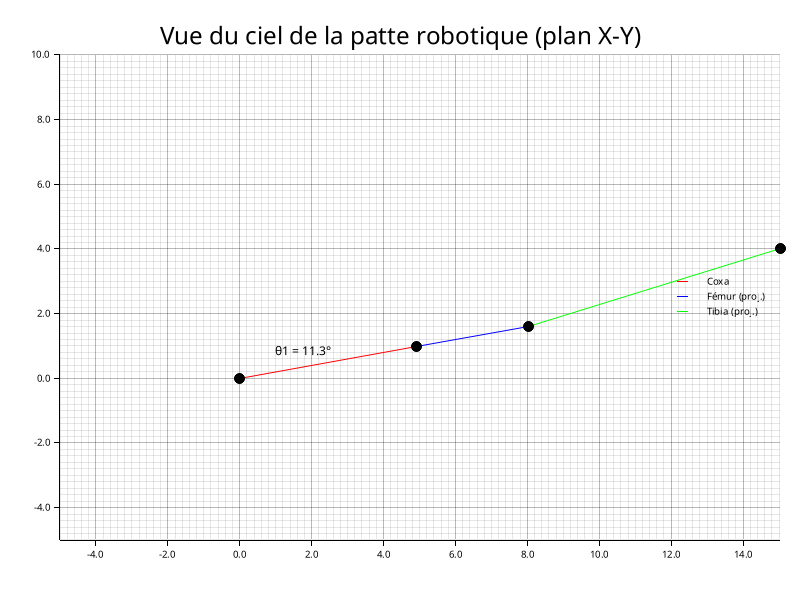
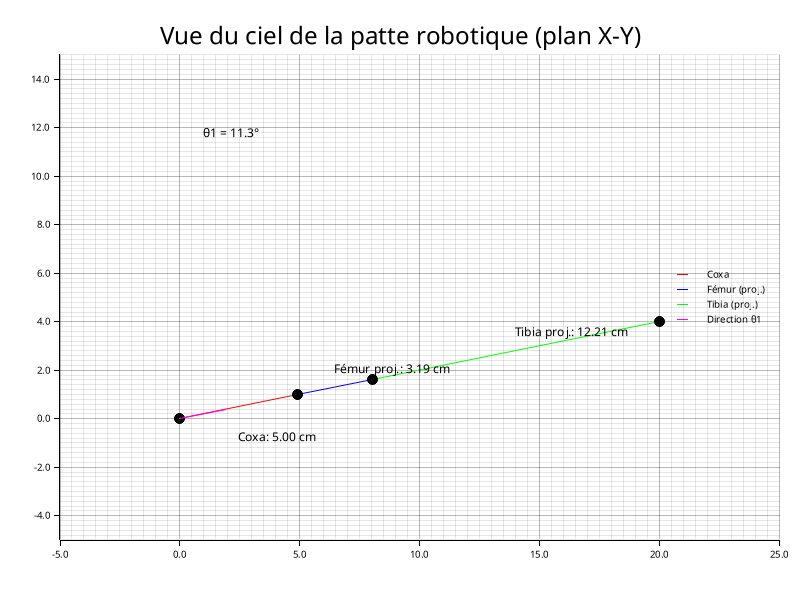
Enhance leg visualization functions to include precise joint coordinates and segment lengths

Changed region(s): [[0.0312, 0.09, 1.0, 0.93], [0.9688, 0.9, 1.0, 0.93]]

diff --git a/Rust/trigo-calc/src/visualisation.rs b/Rust/trigo-calc/src/visualisation.rs
@@ -1,23 +1,29 @@
 use plotters::prelude::*;
 
-pub fn visualize_leg(x: f64, y: f64, z: f64, coxa: f64, femur: f64, tibia: f64, theta1: f64, theta2: f64, theta4: f64) -> Result<(), Box<dyn std::error::Error>> {
+pub fn visualize_leg(
+    target_x: f64, target_y: f64, target_z: f64,
+    coxa_x: f64, coxa_z: f64,
+    femur_x: f64, femur_z: f64,
+    tibia_x: f64, tibia_z: f64,
+    theta1: f64, theta2: f64, theta4: f64
+) -> Result<(), Box<dyn std::error::Error>> {
     let root = BitMapBackend::new("leg_visualization.png", (800, 600)).into_drawing_area();
     root.fill(&WHITE)?;
     
     let mut chart = ChartBuilder::on(&root)
-        .caption("Visualisation 2D de la patte robotique", ("sans-serif", 30))
+        .caption("Visualisation 2D de la patte robotique (profil X-Z)", ("sans-serif", 30))
         .margin(20)
         .x_label_area_size(40)
         .y_label_area_size(40)
-        .build_cartesian_2d(-10.0..25.0, -10.0..15.0)?;
+        .build_cartesian_2d(-5.0..25.0, -5.0..15.0)?;
 
     chart.configure_mesh().draw()?;
 
-    // Points de la patte
-    let origin = (0.0, 0.0);
-    let coxa_end = (coxa, 0.0);
-    let femur_end = (coxa + femur * theta4.cos(), femur * theta4.sin());
-    let target = (x, z);
+    // Points de la patte avec les coordonnées réelles
+    let origin = (coxa_x, coxa_z);
+    let coxa_end = (femur_x, femur_z);
+    let femur_end = (tibia_x, tibia_z);
+    let target = (target_x, target_z);
 
     // Dessiner les segments
     chart.draw_series(LineSeries::new(
@@ -32,21 +38,43 @@ pub fn visualize_leg(x: f64, y: f64, z: f64, coxa: f64, femur: f64, tibia: f64, 
         vec![femur_end, target], &GREEN
     ))?.label("Tibia").legend(|(x, y)| PathElement::new(vec![(x, y), (x + 10, y)], &GREEN));
 
+    // Calculer les longueurs réelles des segments
+    let coxa_length = ((coxa_end.0 - origin.0).powi(2) + (coxa_end.1 - origin.1).powi(2)).sqrt();
+    let femur_length = ((femur_end.0 - coxa_end.0).powi(2) + (femur_end.1 - coxa_end.1).powi(2)).sqrt();
+    let tibia_length = ((target.0 - femur_end.0).powi(2) + (target.1 - femur_end.1).powi(2)).sqrt();
+
     // Afficher les longueurs des segments
     chart.draw_series(std::iter::once(Text::new(
-        format!("Coxa: {:.2} cm", coxa),
-        (coxa / 2.0, -1.0),
+        format!("Coxa: {:.2} cm", coxa_length),
+        ((origin.0 + coxa_end.0) / 2.0, (origin.1 + coxa_end.1) / 2.0 - 1.0),
         ("sans-serif", 15)
     )))?;
     chart.draw_series(std::iter::once(Text::new(
-        format!("Fémur: {:.2} cm", femur),
-        ((coxa + femur_end.0) / 2.0, femur_end.1 / 2.0),
+        format!("Fémur: {:.2} cm", femur_length),
+        ((coxa_end.0 + femur_end.0) / 2.0, (coxa_end.1 + femur_end.1) / 2.0 + 1.0),
         ("sans-serif", 15)
     )))?;
     chart.draw_series(std::iter::once(Text::new(
-        format!("Tibia: {:.2} cm", tibia),
-        ((femur_end.0 + target.0) / 2.0, (femur_end.1 + target.1) / 2.0),
+        format!("Tibia: {:.2} cm", tibia_length),
+        ((femur_end.0 + target.0) / 2.0, (femur_end.1 + target.1) / 2.0 + 1.0),
         ("sans-serif", 15)
+    )))?;
+
+    // Afficher les angles
+    chart.draw_series(std::iter::once(Text::new(
+        format!("θ1 = {:.1}°", theta1.to_degrees()),
+        (1.0, 10.0),
+        ("sans-serif", 15).into_font().color(&BLACK)
+    )))?;
+    chart.draw_series(std::iter::once(Text::new(
+        format!("θ2 = {:.1}°", theta2.to_degrees()),
+        (1.0, 8.5),
+        ("sans-serif", 15).into_font().color(&BLACK)
+    )))?;
+    chart.draw_series(std::iter::once(Text::new(
+        format!("θ4 = {:.1}°", theta4.to_degrees()),
+        (1.0, 7.0),
+        ("sans-serif", 15).into_font().color(&BLACK)
     )))?;
 
     // Dessiner les points
@@ -60,12 +88,18 @@ pub fn visualize_leg(x: f64, y: f64, z: f64, coxa: f64, femur: f64, tibia: f64, 
     chart.configure_series_labels().draw()?;
     root.present()?;
     
-    println!("Visualisation sauvegardée dans 'leg_visualization.png'");
+    println!("Visualisation profil sauvegardée dans 'leg_visualization.png'");
     Ok(())
 }
 
 // Génère la vue du ciel (top view) de la patte robotique
-pub fn visualize_leg_top_view(x: f64, y: f64, _z: f64, coxa: f64, femur: f64, _tibia: f64, theta1: f64, theta4: f64) -> Result<(), Box<dyn std::error::Error>> {
+pub fn visualize_leg_top_view(
+    target_x: f64, target_y: f64, _target_z: f64,
+    coxa_x: f64, coxa_y: f64,
+    femur_x: f64, femur_y: f64,
+    tibia_x: f64, tibia_y: f64,
+    theta1: f64
+) -> Result<(), Box<dyn std::error::Error>> {
     let root = BitMapBackend::new("leg_visualization_top.png", (800, 600)).into_drawing_area();
     root.fill(&WHITE)?;
     
@@ -74,20 +108,17 @@ pub fn visualize_leg_top_view(x: f64, y: f64, _z: f64, coxa: f64, femur: f64, _t
         .margin(20)
         .x_label_area_size(40)
         .y_label_area_size(40)
-        .build_cartesian_2d(-5.0..15.0, -5.0..10.0)?;
+        .build_cartesian_2d(-5.0..25.0, -5.0..15.0)?;
 
     chart.configure_mesh().draw()?;
 
-    // Projections horizontales des segments
-    let origin = (0.0, 0.0);
-    let coxa_end = (coxa * theta1.cos(), coxa * theta1.sin());
-    
-    // projection horizontale du fémur
-    let f_prime = femur * theta4.cos();
-    let femur_end = (coxa_end.0 + f_prime * theta1.cos(), coxa_end.1 + f_prime * theta1.sin());
-    let target = (x, y);
+    // Points de la patte avec les coordonnées réelles
+    let origin = (coxa_x, coxa_y);
+    let coxa_end = (femur_x, femur_y);
+    let femur_end = (tibia_x, tibia_y);
+    let target = (target_x, target_y);
 
-    // Dessiner les segments projetés
+    // Dessiner les segments avec les coordonnées précises
     chart.draw_series(LineSeries::new(
         vec![origin, coxa_end], &RED
     ))?.label("Coxa").legend(|(x, y)| PathElement::new(vec![(x, y), (x + 10, y)], &RED));
@@ -100,6 +131,28 @@ pub fn visualize_leg_top_view(x: f64, y: f64, _z: f64, coxa: f64, femur: f64, _t
         vec![femur_end, target], &GREEN
     ))?.label("Tibia (proj.)").legend(|(x, y)| PathElement::new(vec![(x, y), (x + 10, y)], &GREEN));
 
+    // Calculer les longueurs réelles des projections
+    let coxa_length = ((coxa_end.0 - origin.0).powi(2) + (coxa_end.1 - origin.1).powi(2)).sqrt();
+    let femur_proj_length = ((femur_end.0 - coxa_end.0).powi(2) + (femur_end.1 - coxa_end.1).powi(2)).sqrt();
+    let tibia_proj_length = ((target.0 - femur_end.0).powi(2) + (target.1 - femur_end.1).powi(2)).sqrt();
+
+    // Afficher les longueurs des projections
+    chart.draw_series(std::iter::once(Text::new(
+        format!("Coxa: {:.2} cm", coxa_length),
+        ((origin.0 + coxa_end.0) / 2.0, (origin.1 + coxa_end.1) / 2.0 - 1.0),
+        ("sans-serif", 15)
+    )))?;
+    chart.draw_series(std::iter::once(Text::new(
+        format!("Fémur proj.: {:.2} cm", femur_proj_length),
+        ((coxa_end.0 + femur_end.0) / 2.0, (coxa_end.1 + femur_end.1) / 2.0 + 1.0),
+        ("sans-serif", 15)
+    )))?;
+    chart.draw_series(std::iter::once(Text::new(
+        format!("Tibia proj.: {:.2} cm", tibia_proj_length),
+        ((femur_end.0 + target.0) / 2.0, (femur_end.1 + target.1) / 2.0 + 1.0),
+        ("sans-serif", 15)
+    )))?;
+
     // Dessiner les points
     chart.draw_series(PointSeries::of_element(
         vec![origin, coxa_end, femur_end, target],
@@ -111,9 +164,15 @@ pub fn visualize_leg_top_view(x: f64, y: f64, _z: f64, coxa: f64, femur: f64, _t
     // Ajouter des annotations pour les angles
     chart.draw_series(std::iter::once(Text::new(
         format!("θ1 = {:.1}°", theta1.to_degrees()),
-        (1.0, 1.0),
-        ("sans-serif", 15)
+        (1.0, 12.0),
+        ("sans-serif", 15).into_font().color(&BLACK)
     )))?;
+
+    // Dessiner une ligne pour indiquer la direction de θ1
+    let angle_line_end = (2.0 * theta1.cos(), 2.0 * theta1.sin());
+    chart.draw_series(LineSeries::new(
+        vec![origin, angle_line_end], &MAGENTA
+    ))?.label("Direction θ1").legend(|(x, y)| PathElement::new(vec![(x, y), (x + 10, y)], &MAGENTA));
 
     chart.configure_series_labels().draw()?;
     root.present()?;

diff --git a/Rust/trigo-calc/src/main.rs b/Rust/trigo-calc/src/main.rs
@@ -49,20 +49,39 @@ fn calcul (x : f64, y: f64, z: f64) {
     let y_coxa = 0.0;
     let z_coxa = 0.0;
 
-    let x_femur = coxa * theta4.to_radians().cos();
-    let y_femur = 0.0;
-    let z_femur = coxa * theta4.to_radians().sin();
+    let x_femur = coxa * theta1.cos();
+    let y_femur = coxa * theta1.sin();
+    let z_femur = 0.0;
 
-    let x_tibia = x_femur + femur * (theta2 + theta3).cos();
-    let y_tibia = 0.0;
-    let z_tibia = z_femur + femur * (theta2 + theta3).sin();
+    let x_tibia = x_femur + femur * theta4.cos() * theta1.cos();
+    let y_tibia = y_femur + femur * theta4.cos() * theta1.sin();
+    let z_tibia = femur * theta4.sin();
 
-    // Générer la vue du ciel (x;y)
-    if let Err(e) = visualize_leg_top_view(x, y, z, coxa, femur, tibia, theta1, theta4) {
+    println!("\nCoordonnées des articulations :");
+    println!("Coxa    : ({:.2}, {:.2}, {:.2})", x_coxa, y_coxa, z_coxa);
+    println!("Fémur   : ({:.2}, {:.2}, {:.2})", x_femur, y_femur, z_femur);
+    println!("Tibia   : ({:.2}, {:.2}, {:.2})", x_tibia, y_tibia, z_tibia);
+    println!("Cible   : ({:.2}, {:.2}, {:.2})", x, y, z);
+
+    // Générer la vue du ciel (x;y) avec les coordonnées précises
+    if let Err(e) = visualize_leg_top_view(
+        x, y, z, 
+        x_coxa, y_coxa, 
+        x_femur, y_femur, 
+        x_tibia, y_tibia, 
+        theta1
+    ) {
         println!("Erreur lors de la génération de la vue du ciel : {}", e);
     }
-    // Générer la visualisation de profile (x;z)
-    if let Err(e) = visualize_leg(x, y, z, coxa, femur, tibia, theta1, theta2, theta4) {
+    
+    // Générer la visualisation de profile (x;z) avec les coordonnées précises
+    if let Err(e) = visualize_leg(
+        x, y, z, 
+        x_coxa, z_coxa, 
+        x_femur, z_femur, 
+        x_tibia, z_tibia, 
+        theta1, theta2, theta4
+    ) {
         println!("Erreur lors de la génération de la visualisation : {}", e);
     }
 
